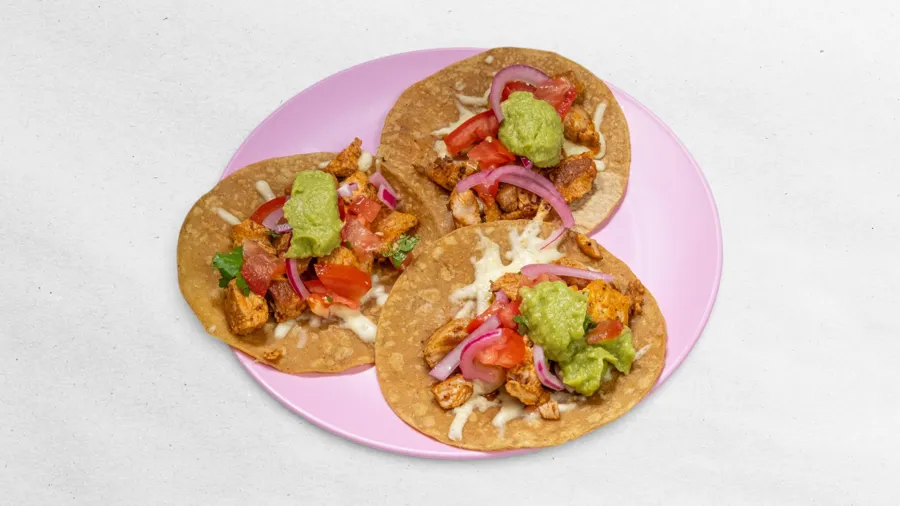
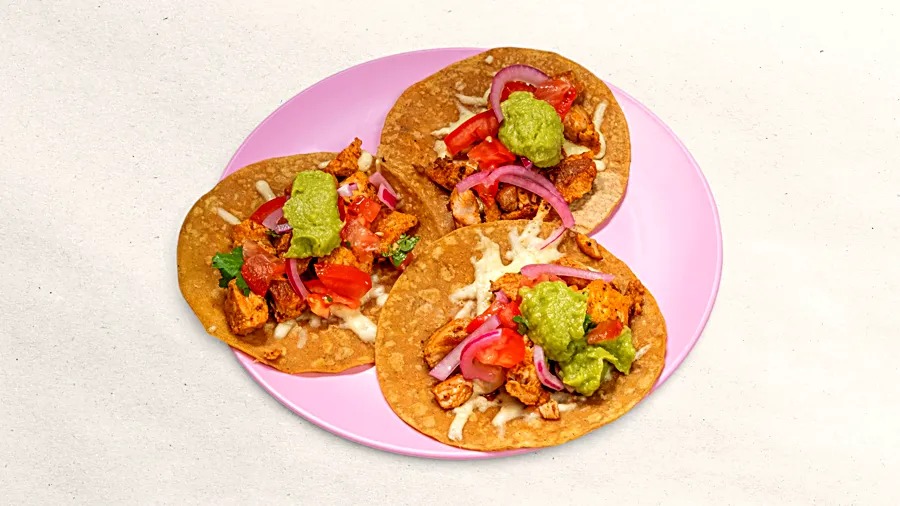
Remove foodora link and raw photos, enhance food photos
Originals in "Fotky jedal" are now gitignored; web versions get a
subtle color/contrast/warmth boost.

Changed region(s): [[0.1867, 0.0889, 0.7467, 0.919], [0.3111, 0.8004, 0.3422, 0.83]]

diff --git a/index.html b/index.html
@@ -34,8 +34,7 @@
   },
   "sameAs": [
     "https://www.instagram.com/tacoboss/",
-    "https://www.facebook.com/tacobosscz/",
-    "https://www.foodora.cz/restaurant/hx6p/taco-boss-hx6p"
+    "https://www.facebook.com/tacobosscz/"
   ],
   "image": "img/og.jpg"
 }
@@ -667,7 +666,7 @@ main{overflow-x:clip}
 </div>
 
 <!-- ═════════ MENU ═════════ -->
-<!-- Menu podle nabídky na foodora.cz. TODO: ceny jsou z foodory (v provozovně jsou nižší) – doplnit skutečné -->
+<!-- Menu podle nabídky Taco Boss. TODO: ceny jsou zatím orientační (převzaté z rozvozu) – doplnit skutečné -->
 <section class="section menu zig" id="menu">
   <div class="wrap">
     <div class="menu-head">
@@ -767,7 +766,7 @@ main{overflow-x:clip}
       </li>
     </ol>
 
-    <div class="menu-note"><p>Nabídka a ceny se mohou měnit. Denní speciality najdeš na <a href="https://www.instagram.com/tacoboss/" target="_blank" rel="noopener">Instagramu</a>.</p><a class="btn btn-corn" href="https://www.foodora.cz/restaurant/hx6p/taco-boss-hx6p" target="_blank" rel="noopener">Rozvoz přes foodora</a></div>
+    <div class="menu-note"><p>Nabídka a ceny se mohou měnit. Denní speciality najdeš na <a href="https://www.instagram.com/tacoboss/" target="_blank" rel="noopener">Instagramu</a>.</p><!-- TODO: tlačítko pro objednávky (WhatsApp) --></div>
   </div>
 </section>
 
